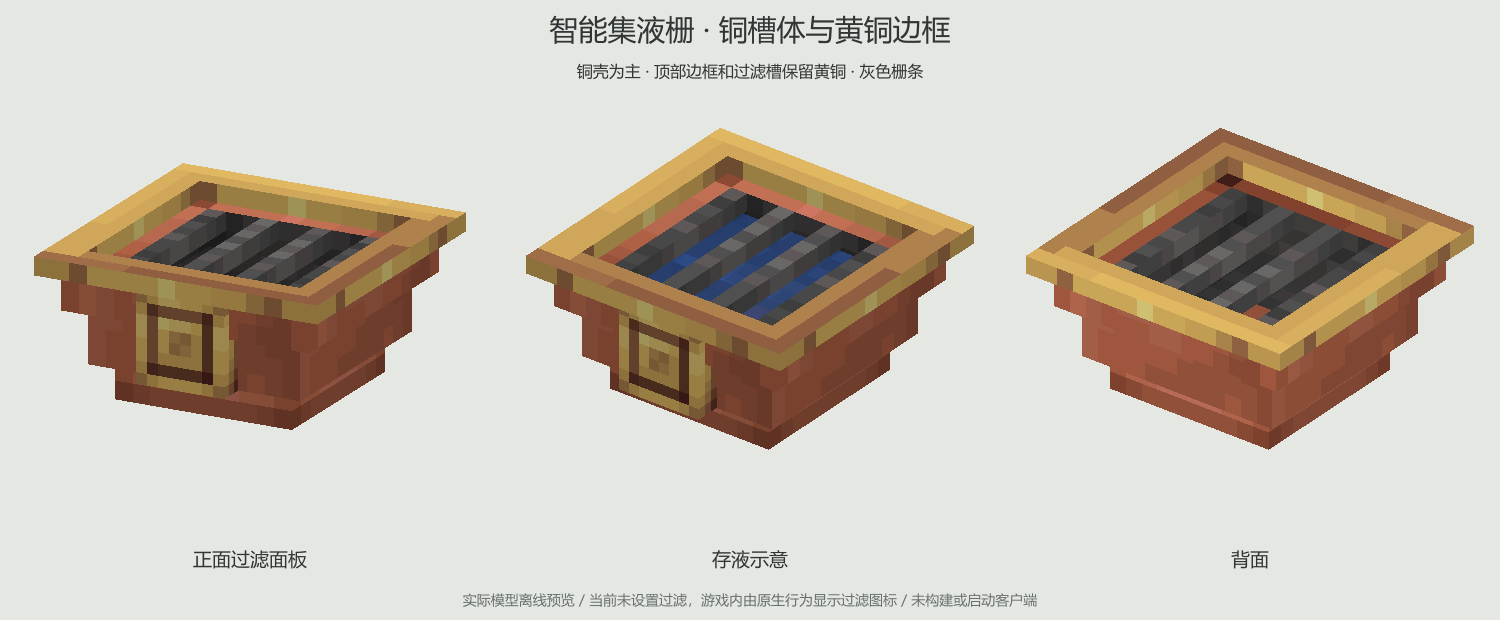
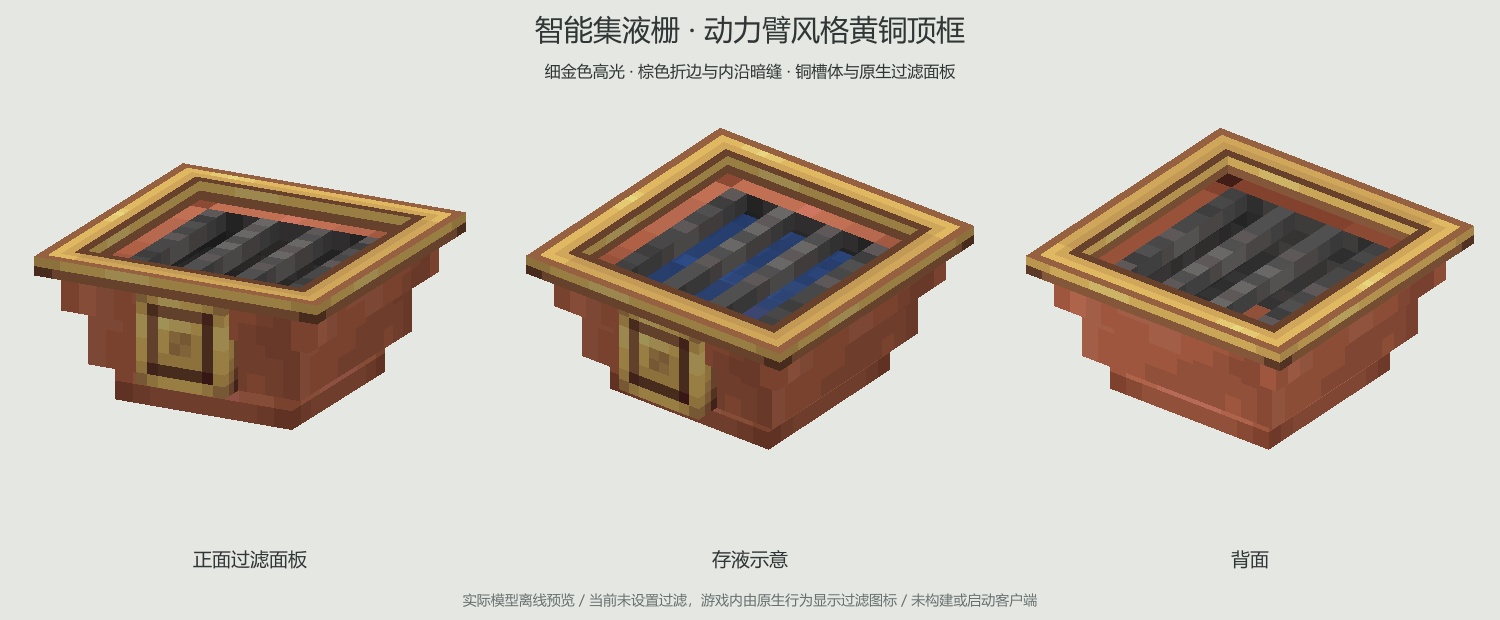
Redraw smart grate brass lip using mechanical arm material cues

diff --git a/docs/smart-collection-grate-model.md b/docs/smart-collection-grate-model.md
@@ -2,6 +2,10 @@
 
 共享已认可的半格集液斗轮廓：逐级收窄的槽体、下沉一像素的灰色栅条、深灰内衬和 Create 原生底部排液口。槽体和底部保留普通版铜色，铜面沿用已认可的 CCD 增压泵布局与色阶；只有四个顶部边框元素的所有面改为黄铜，并保留原生黄铜过滤面板。灰色构件继续使用 Create 原生工业铁材质。生成器从普通版元素克隆出同一几何，仅调整顶框的材质引用，不复制维护另一套轮廓。
 
+顶部黄铜框按用户指定，参考动力臂重新绘制。先读取原生 `mechanical_arm/block` 与 `base` 的模型、`mechanical_arm`、`mechanical_arm_side` 和 `brass_block` 实际贴图：静态底座侧面来自 mechanical_arm 的 [0,8,8,11] 区域，顶面使用 brass_block。取其亮金细线、温暖金色平面和棕色压边的表达，重新画两张 32×32 整数像素贴图，取消先前直接从铜面改黄铜的布局。顶框宽两模型像素，32px 图集在该宽度提供四个像素：棕色外折边、细高光、金色平面及内沿暗缝。上/左侧保留几段连接的浅金高光，未添加铆钉或密集噪点。
+
+侧缘仍使用原来 V=2..3 的 UV 范围，在新图集采样第 4、5 行，形成一条亮金边与一条棕色折面；底面改用同一顶框图集，避免把侧缘条带平铺到下表面。其余 UV、几何、铜面、过滤面板和交互数据均不改。两张顶框图采用最近邻采样；32px 与动力臂原生主图集分辨率一致，但像素布局为 CCD 重新绘制，并非剪贴其图案。
+
 前侧安装 5×5 的方形过滤面板，范围 [5.5,2,14]..[10.5,7,15.5]，不超过半格高度或方块边界。面板使用本地 Create 6.0.10-280 `smart_fluid_pipe/block` 第三个元素的原生过滤边框 UV，纹理直接引用 `create:block/smart_pipe_2`，重新配置为朝南的直立安装，不自绘替代图案。板顶低于顶框顶面一像素，不遮挡顶部栅口。
 
 `SmartCollectionGrateBlock` 增加原生水平 FACING 属性，放置时朝向玩家；结构旋转/镜像使用原版 Rotation/Mirror，扳手旋转仍调用继承的 Create `IWrenchable` 流程，只提供水平转向结果。方块状态为四个朝向各配置两个独立 multipart 部件：槽体和面板一起旋转，POWERED 不改变外观。物品模型合并相同的槽体和面板。
@@ -12,4 +16,4 @@
 
 生成器为 `tools/create-smart-collection-grate.cjs`，参数为本地 Create 源码资源根目录，沿用基础版输出的 CCD 贴图。`outputs/smart-collection-grate/preview.png` 展示正面、存液和背面，`comparison.png` 为两版同角度比较；过滤槽未设置物品，游戏中由原生渲染器显示实际过滤图标。存水只为离线示意，临时水面模型在 finally 中删除。
 
-本次仅检查源码和模型、材质、朝向及命中数据，并进行离线预览；未编译、运行测试或启动客户端。黄铜顶框改色基于 CCD 自绘铜面；工业铁、内衬、原生过滤面板 UV、smart_pipe_2 及管口资源属于 The Create Team / The Creators of Create，不标为 CCD 原创或 MIT 美术。离线预览中的原版水纹属于 Mojang。
+本次仅检查源码和模型、材质、朝向及命中数据，并进行离线预览；未编译、运行测试或启动客户端。黄铜顶框为 CCD 参考原生动力臂材质表达重新绘制；工业铁、内衬、原生过滤面板 UV、smart_pipe_2 及管口资源属于 The Create Team / The Creators of Create，不标为 CCD 原创或 MIT 美术。离线预览中的原版水纹属于 Mojang。
